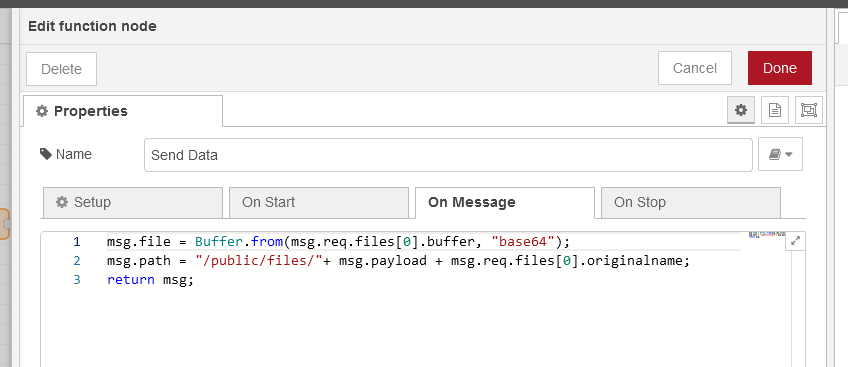
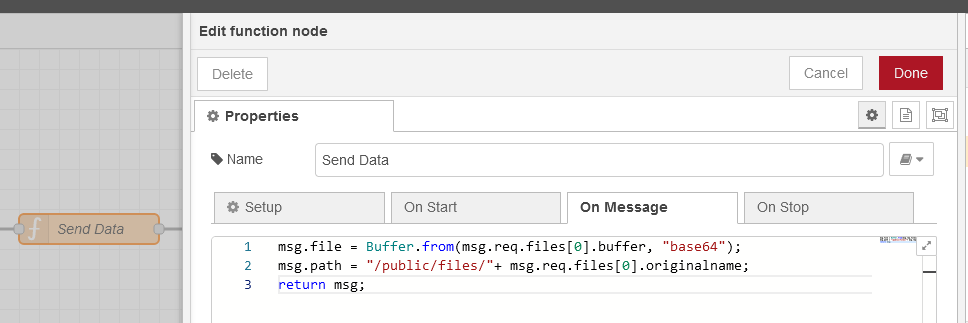
init

Changed region(s): [[0.0, 0.0, 1.0, 1.0], [0.2759, 0.8669, 0.3679, 0.8978], [0.3986, 0.3406, 0.4292, 0.4025]]

diff --git a/file-manager.html b/file-manager.html
@@ -59,7 +59,7 @@
         <dt>file<span class="property-type">string</span></dt>
         <dd>File Buffer object <br /><b>Example:</b><br />
           msg.file = Buffer.from(msg.req.files[0].buffer,"base64");<br />
-          msg.path = "/public/files/"+ msg.payload + msg.req.files[0].originalname;<br />
+          msg.path = "/public/files/"+ msg.req.files[0].originalname;<br />
           return msg;
         </dd>
     </dl>    
